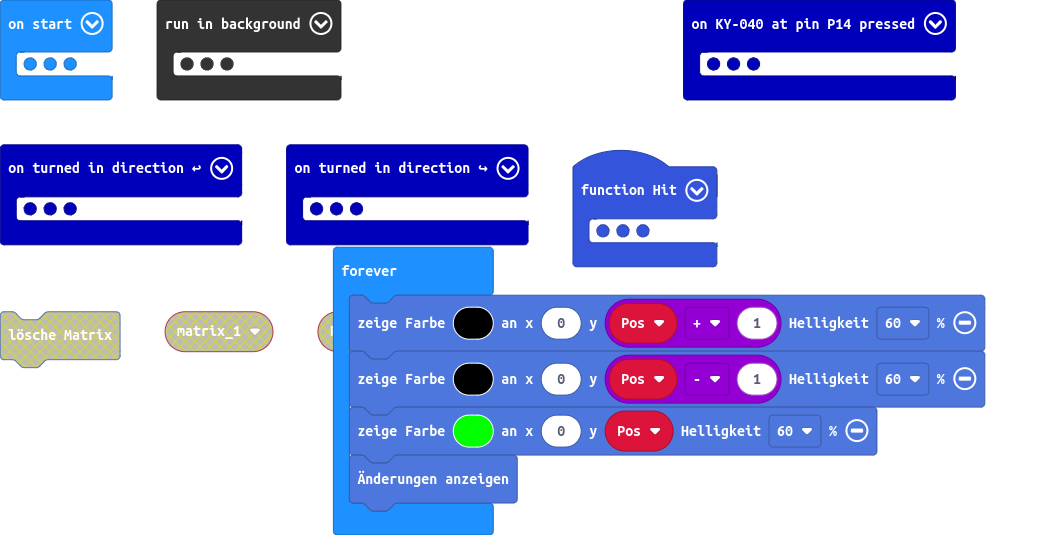
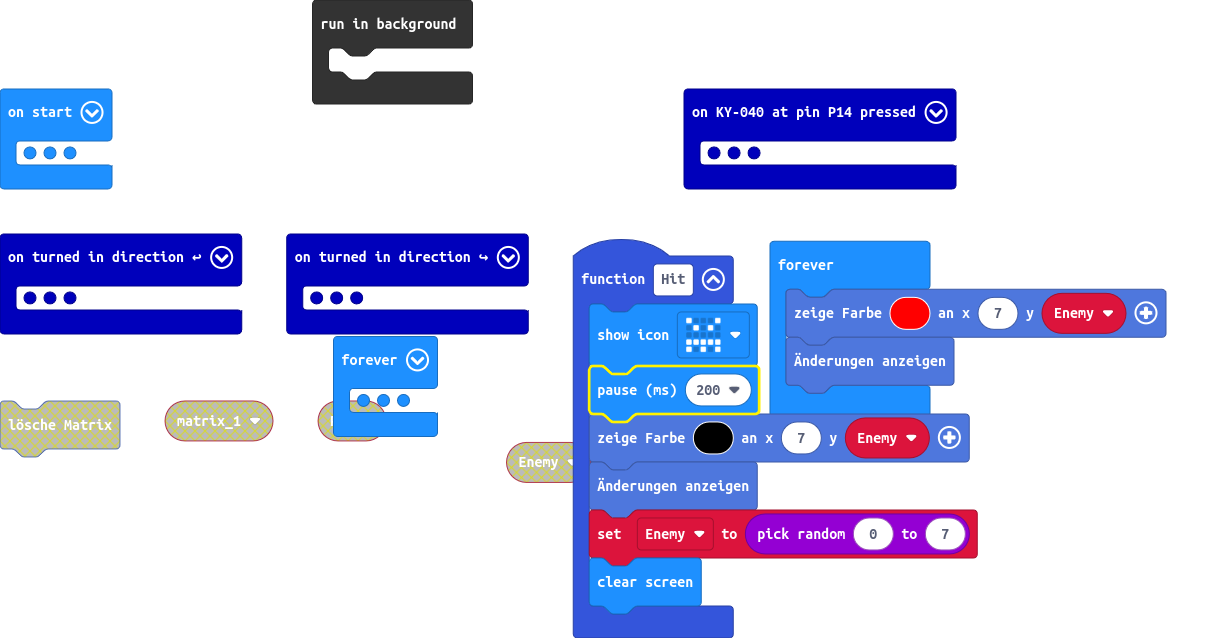
move enemy display to forever block as background doesn't display new position

diff --git a/main.ts b/main.ts
@@ -6,6 +6,7 @@ KY040.OnPinPressed(DigitalPin.P14, function () {
         basic.pause(500)
         if (Pos == Enemy && index == 7) {
             Hit()
+            break;
         }
         callimatrix.SetMatrixColorbright(0x000000, index + 1, Pos, cbrightness.hp2)
         callimatrix.callimatrix_show()
@@ -24,7 +25,10 @@ KY040.onTurned(direction.clockwise, function () {
 })
 function Hit () {
     basic.showIcon(IconNames.Angry)
-    basic.pause(1000)
+    basic.pause(200)
+    callimatrix.SetMatrixColorbright(0x000000, 7, Enemy)
+    callimatrix.callimatrix_show()
+    Enemy = randint(0, 7)
     basic.clearScreen()
 }
 KY040.onTurned(direction.counterclockwise, function () {
@@ -48,12 +52,15 @@ callimatrix.callimatrix_show()
 Enemy = randint(0, 7)
 basic.pause(1000)
 basic.forever(function () {
+    callimatrix.SetMatrixColorbright(0xff0000, 7, Enemy)
+    callimatrix.callimatrix_show()
+})
+basic.forever(function () {
     callimatrix.SetMatrixColorbright(0x000000, 0, Pos + 1, cbrightness.hp6)
     callimatrix.SetMatrixColorbright(0x000000, 0, Pos - 1, cbrightness.hp6)
     callimatrix.SetMatrixColorbright(0x00ff00, 0, Pos, cbrightness.hp6)
     callimatrix.callimatrix_show()
 })
 control.inBackground(function () {
-    callimatrix.SetMatrixColorbright(0xff0000, 7, Enemy)
-    callimatrix.callimatrix_show()
+	
 })
